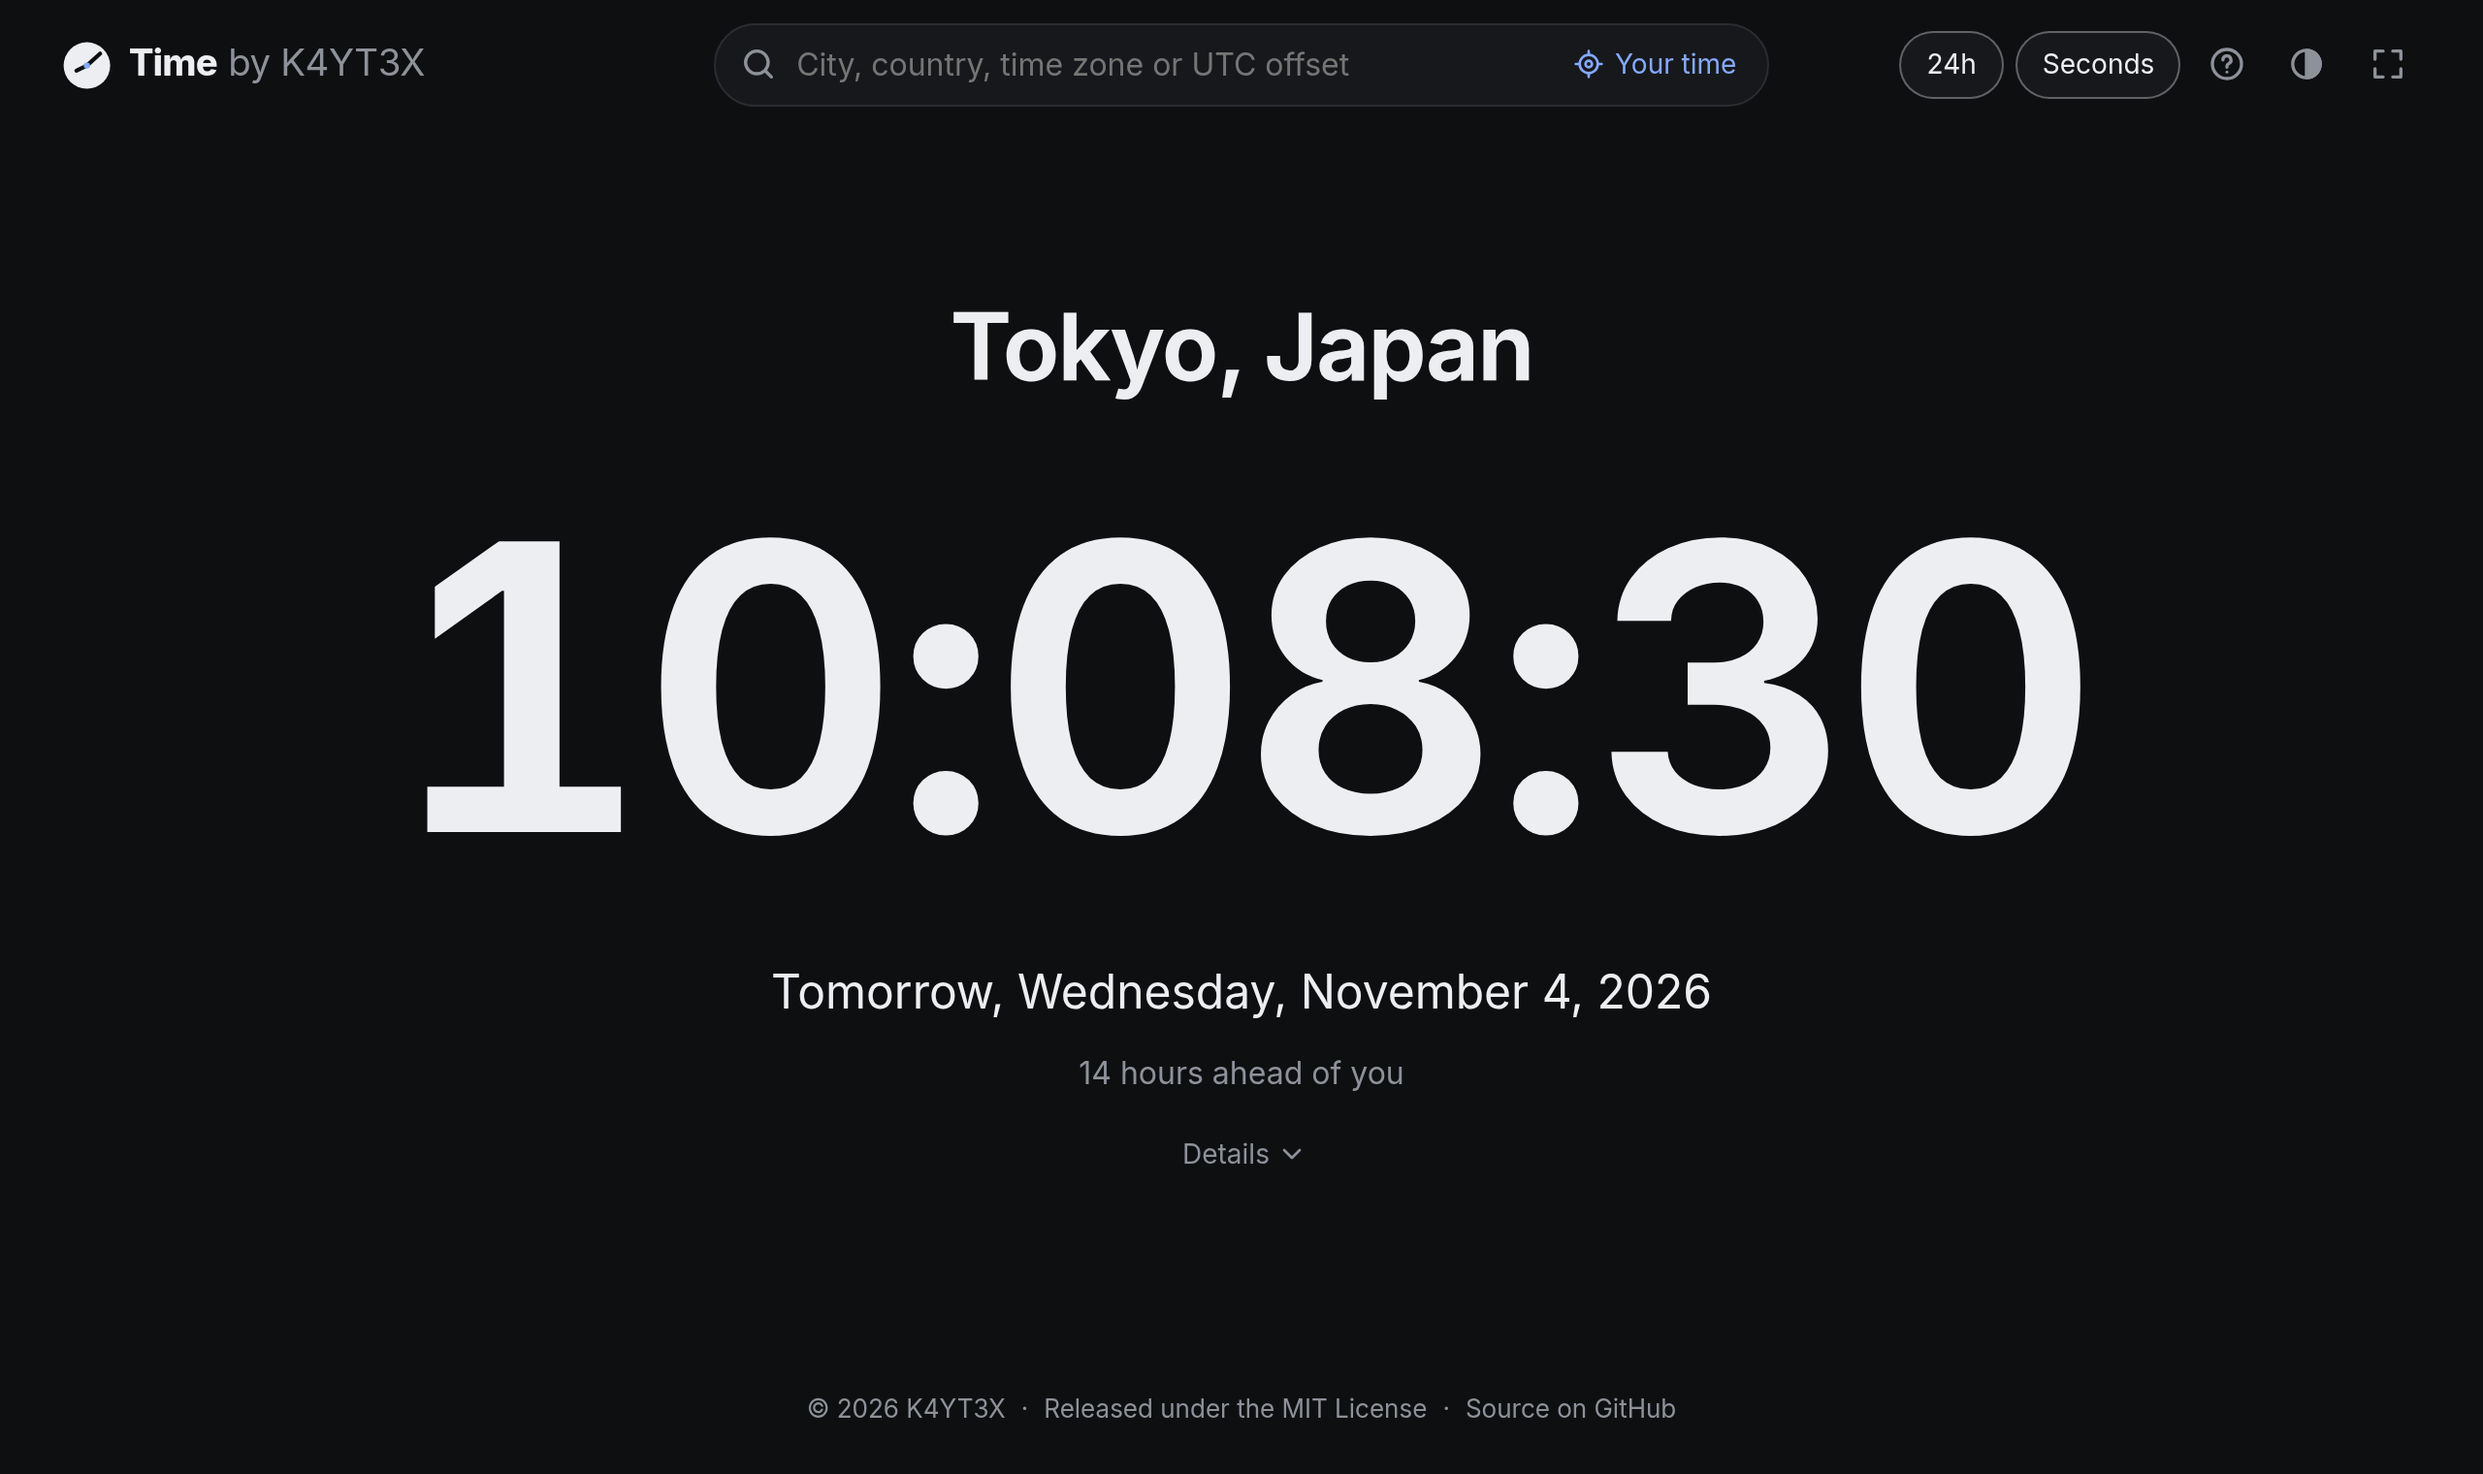
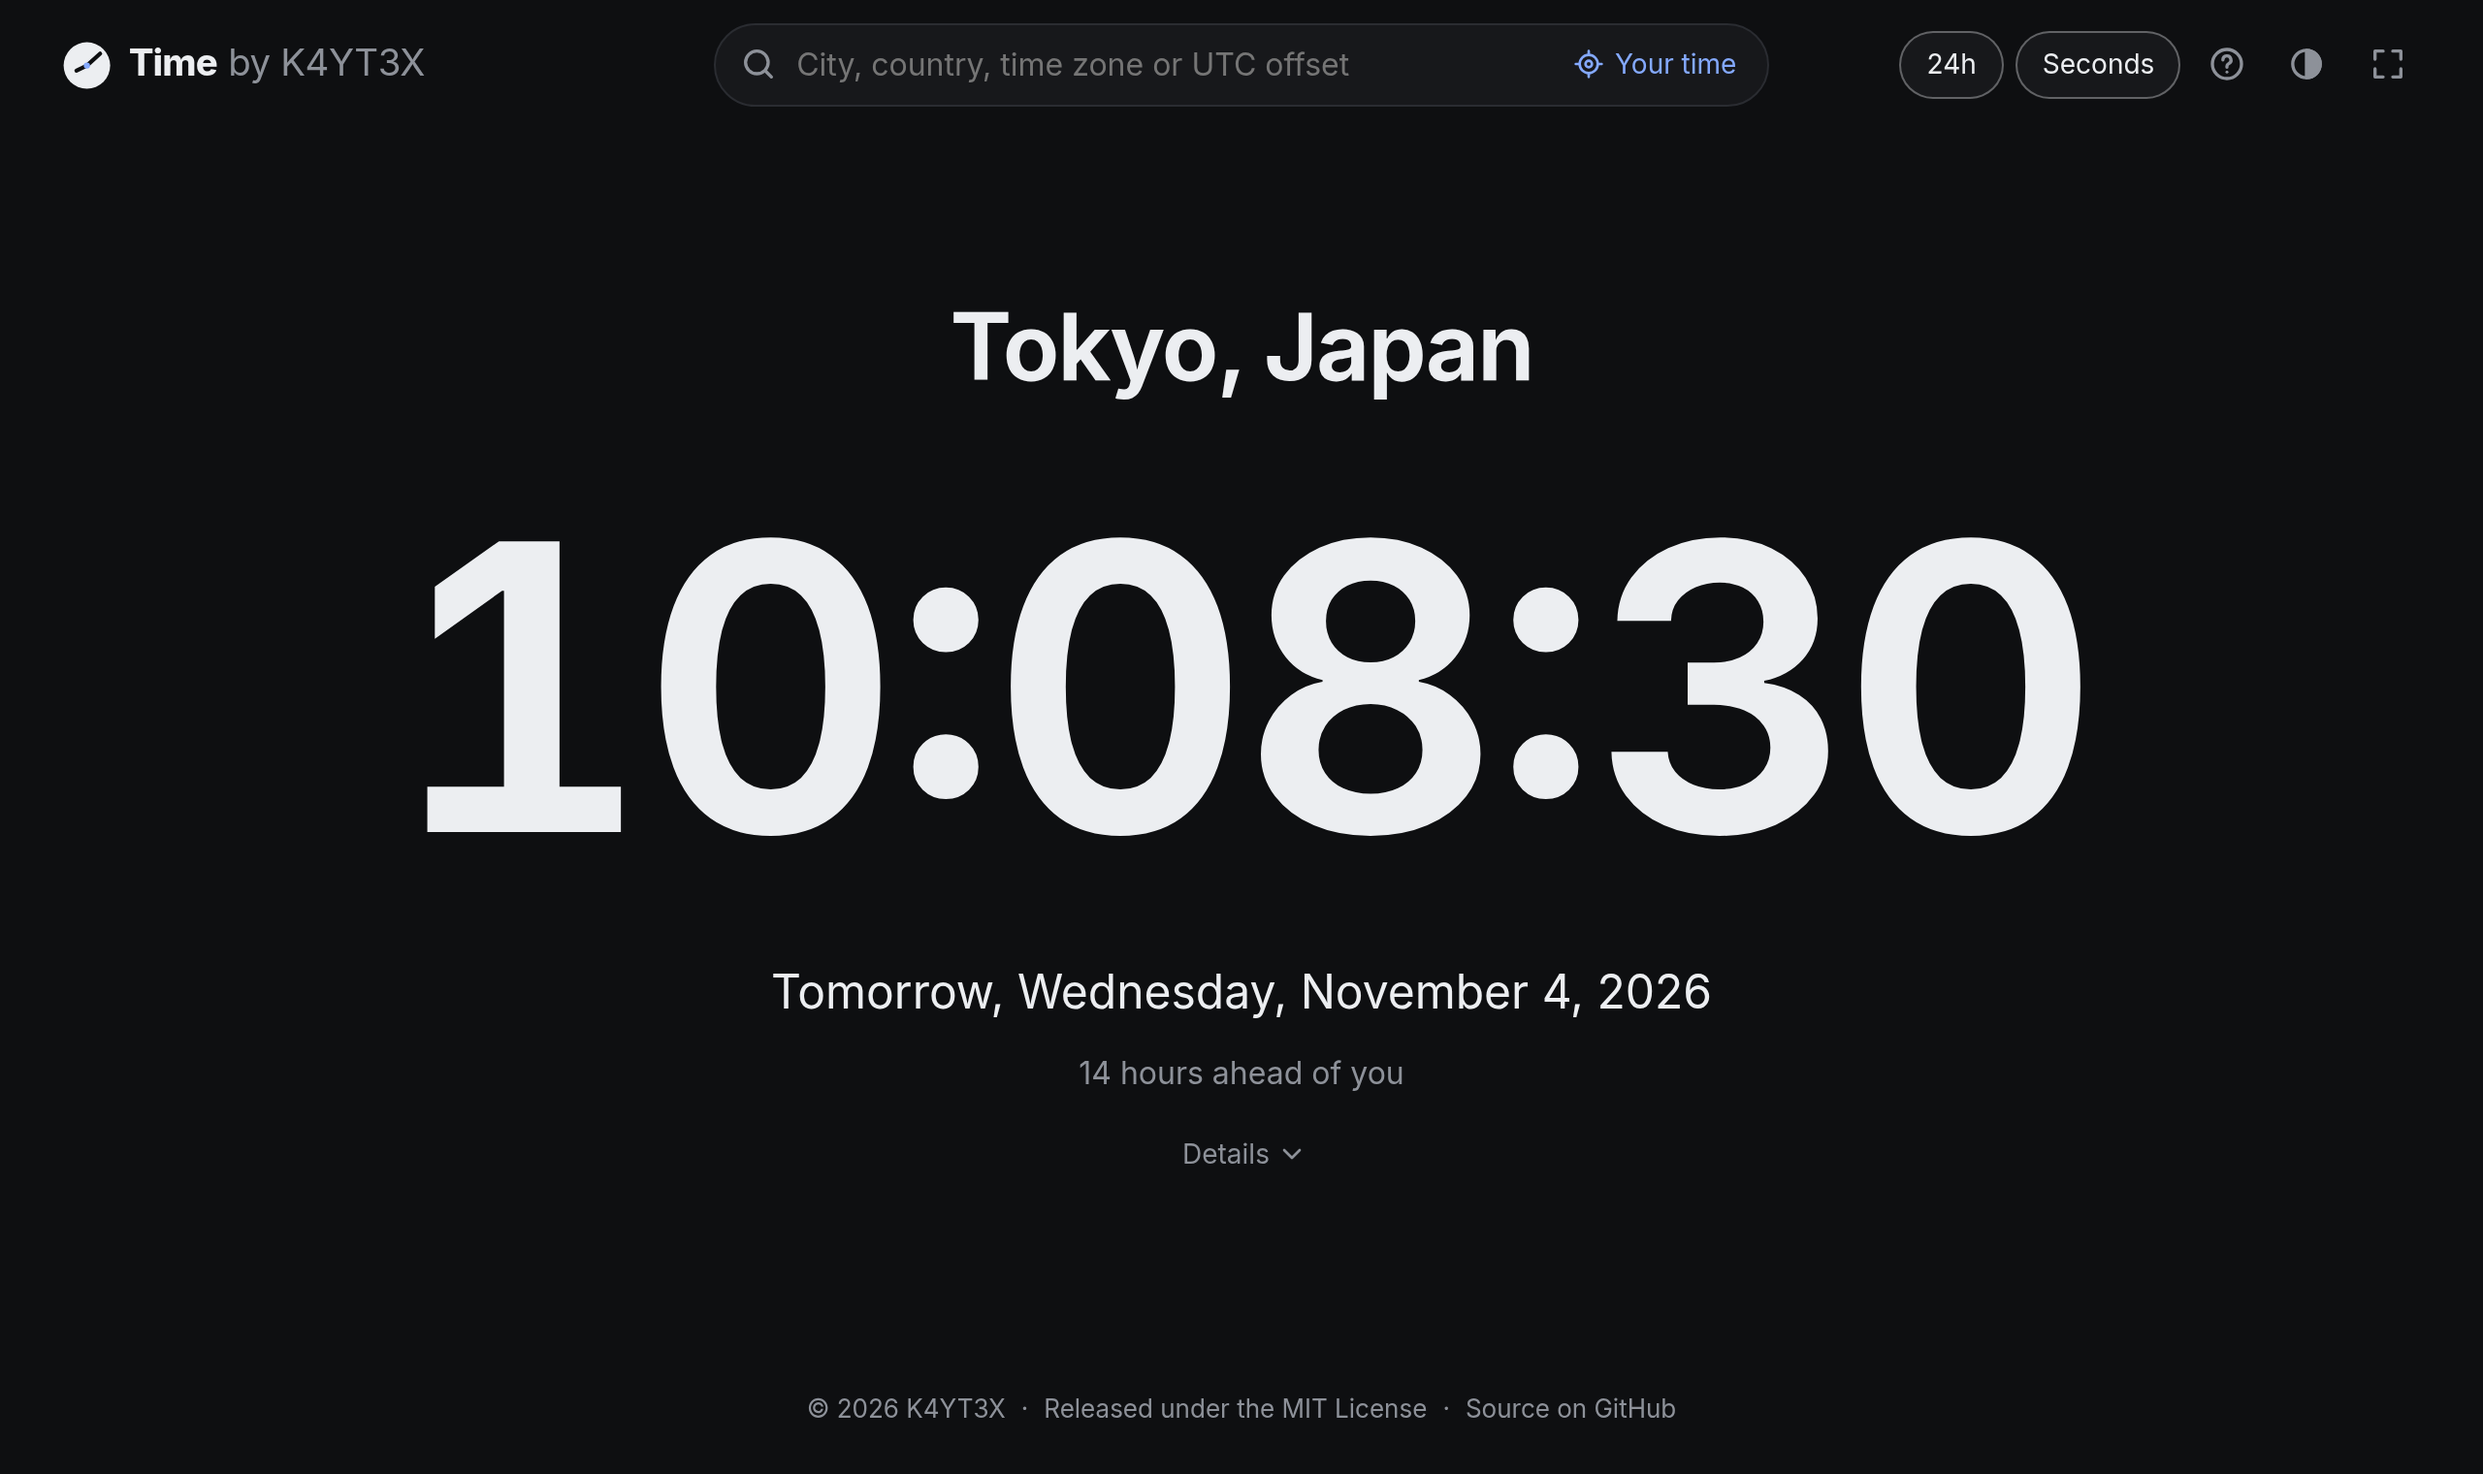
fix: center the colons between the digits of the clocks

diff --git a/src/styles.css b/src/styles.css
@@ -13,6 +13,11 @@
   --warning: light-dark(#9a4b06, #f5b56b);
   --warning-bg: light-dark(#fdf1e2, #2c2117);
   font-family: "Inter Variable", system-ui, -apple-system, "Segoe UI", Roboto, sans-serif;
+  /*
+   * Inter's contextual alternates raise a colon between digits to their middle, as in 09:41.
+   * Chromium turns them off in letter-spaced text, such as the clocks; this keeps them on.
+   */
+  font-feature-settings: "calt";
   line-height: 1.45;
   background: var(--bg);
   color: var(--text);
